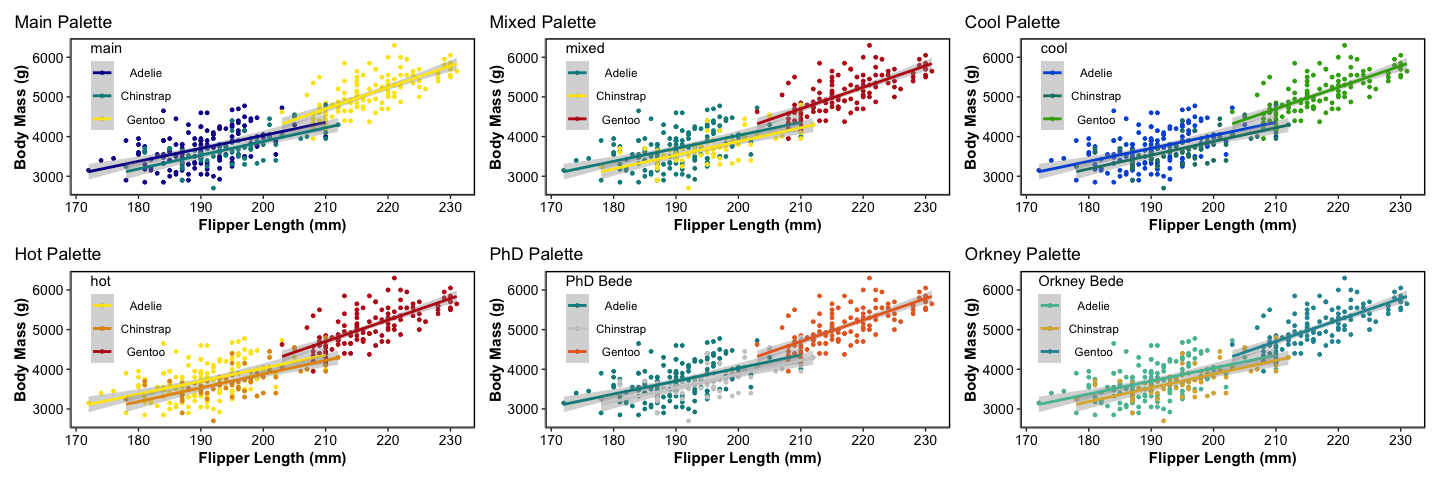
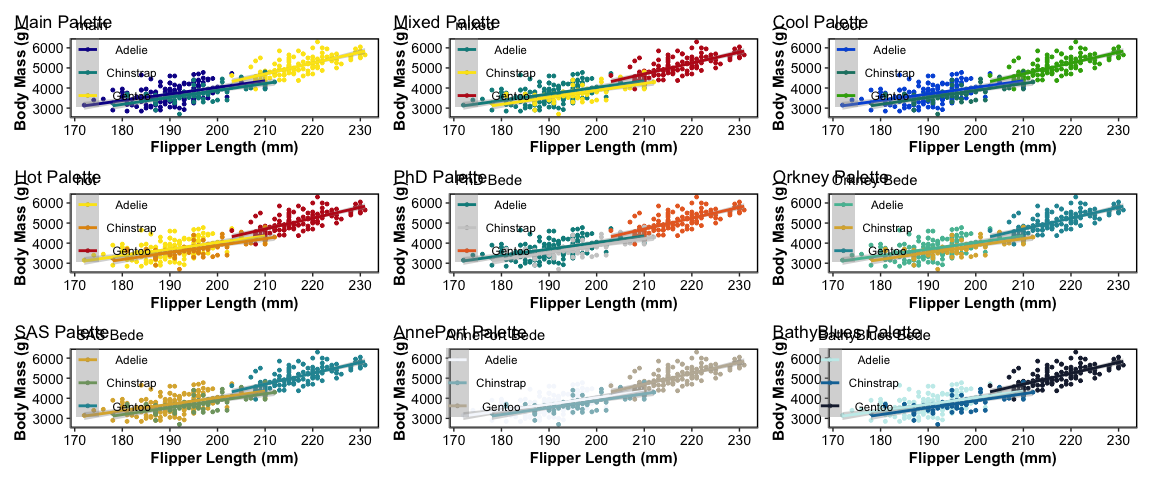
Adding colours and bits to RMD

diff --git a/README.md b/README.md
@@ -224,10 +224,44 @@ colourplot6<-ggplot(data = df2, aes(x = flipper_length_mm, y = body_mass_g)) +
   Utilities.Package::theme_Bede()+
   Utilities.Package::scale_colour_Bede("Orkney")
 
+colourplot7<-ggplot(data = df2, aes(x = flipper_length_mm, y = body_mass_g)) +
+  geom_point(aes(color = species),
+             size = 1)+
+  geom_smooth(aes(color=species),method = "lm")+
+  labs(x="Flipper Length (mm)",
+       y="Body Mass (g)",
+       color="SAS Bede",
+       title="SAS Palette")+
+  Utilities.Package::theme_Bede()+
+  Utilities.Package::scale_colour_Bede("SAS")
+
+colourplot8<-ggplot(data = df2, aes(x = flipper_length_mm, y = body_mass_g)) +
+  geom_point(aes(color = species),
+             size = 1)+
+  geom_smooth(aes(color=species),method = "lm")+
+  labs(x="Flipper Length (mm)",
+       y="Body Mass (g)",
+       color="AnnePort Bede",
+       title="AnnePort Palette")+
+  Utilities.Package::theme_Bede()+
+  Utilities.Package::scale_colour_Bede("AnnePort")
+
+colourplot9<-ggplot(data = df2, aes(x = flipper_length_mm, y = body_mass_g)) +
+  geom_point(aes(color = species),
+             size = 1)+
+  geom_smooth(aes(color=species),method = "lm")+
+  labs(x="Flipper Length (mm)",
+       y="Body Mass (g)",
+       color="BathyBlues Bede",
+       title="BathyBlues Palette")+
+  Utilities.Package::theme_Bede()+
+  Utilities.Package::scale_colour_Bede("Bathy_Blues")
 
 colourplot1+colourplot2+
   colourplot3+colourplot4+
-  colourplot5+colourplot6 &
+  colourplot5+colourplot6+
+  colourplot7+colourplot8 +
+  colourplot9 &
   theme(legend.position = c(0.15,0.7))
 ```
 
@@ -274,7 +308,25 @@ map4<-ggplot()+
   labs(x="Longitude",
        y="Latitude")
 
-(map1+map2)/(map3+map4)
+map5<-ggplot()+
+  geom_sf(data=sf_bathy,mapping=aes(colour=layer))+
+  geom_polygon(data = nz, aes(x = long, y = lat, group = group),
+               fill = "forestgreen", colour = "black",alpha=0.4)+
+  Utilities.Package::scale_colour_Bede(name="Depth (m) SAS Pallette",'SAS',discrete=FALSE)+
+  Utilities.Package::theme_Bede()+
+  labs(x="Longitude",
+       y="Latitude")
+
+map6<-ggplot()+
+  geom_sf(data=sf_bathy,mapping=aes(colour=layer))+
+  geom_polygon(data = nz, aes(x = long, y = lat, group = group),
+               fill = "forestgreen", colour = "black",alpha=0.4)+
+  Utilities.Package::scale_colour_Bede(name="Depth (m) AnnePort Pallette",'AnnePort',discrete=FALSE)+
+  Utilities.Package::theme_Bede()+
+  labs(x="Longitude",
+       y="Latitude")
+
+(map1+map2)/(map3+map4)/(map5+map6)
 ```
 
 <img src="man/figures/README-mapping-1.png" width="100%" />
